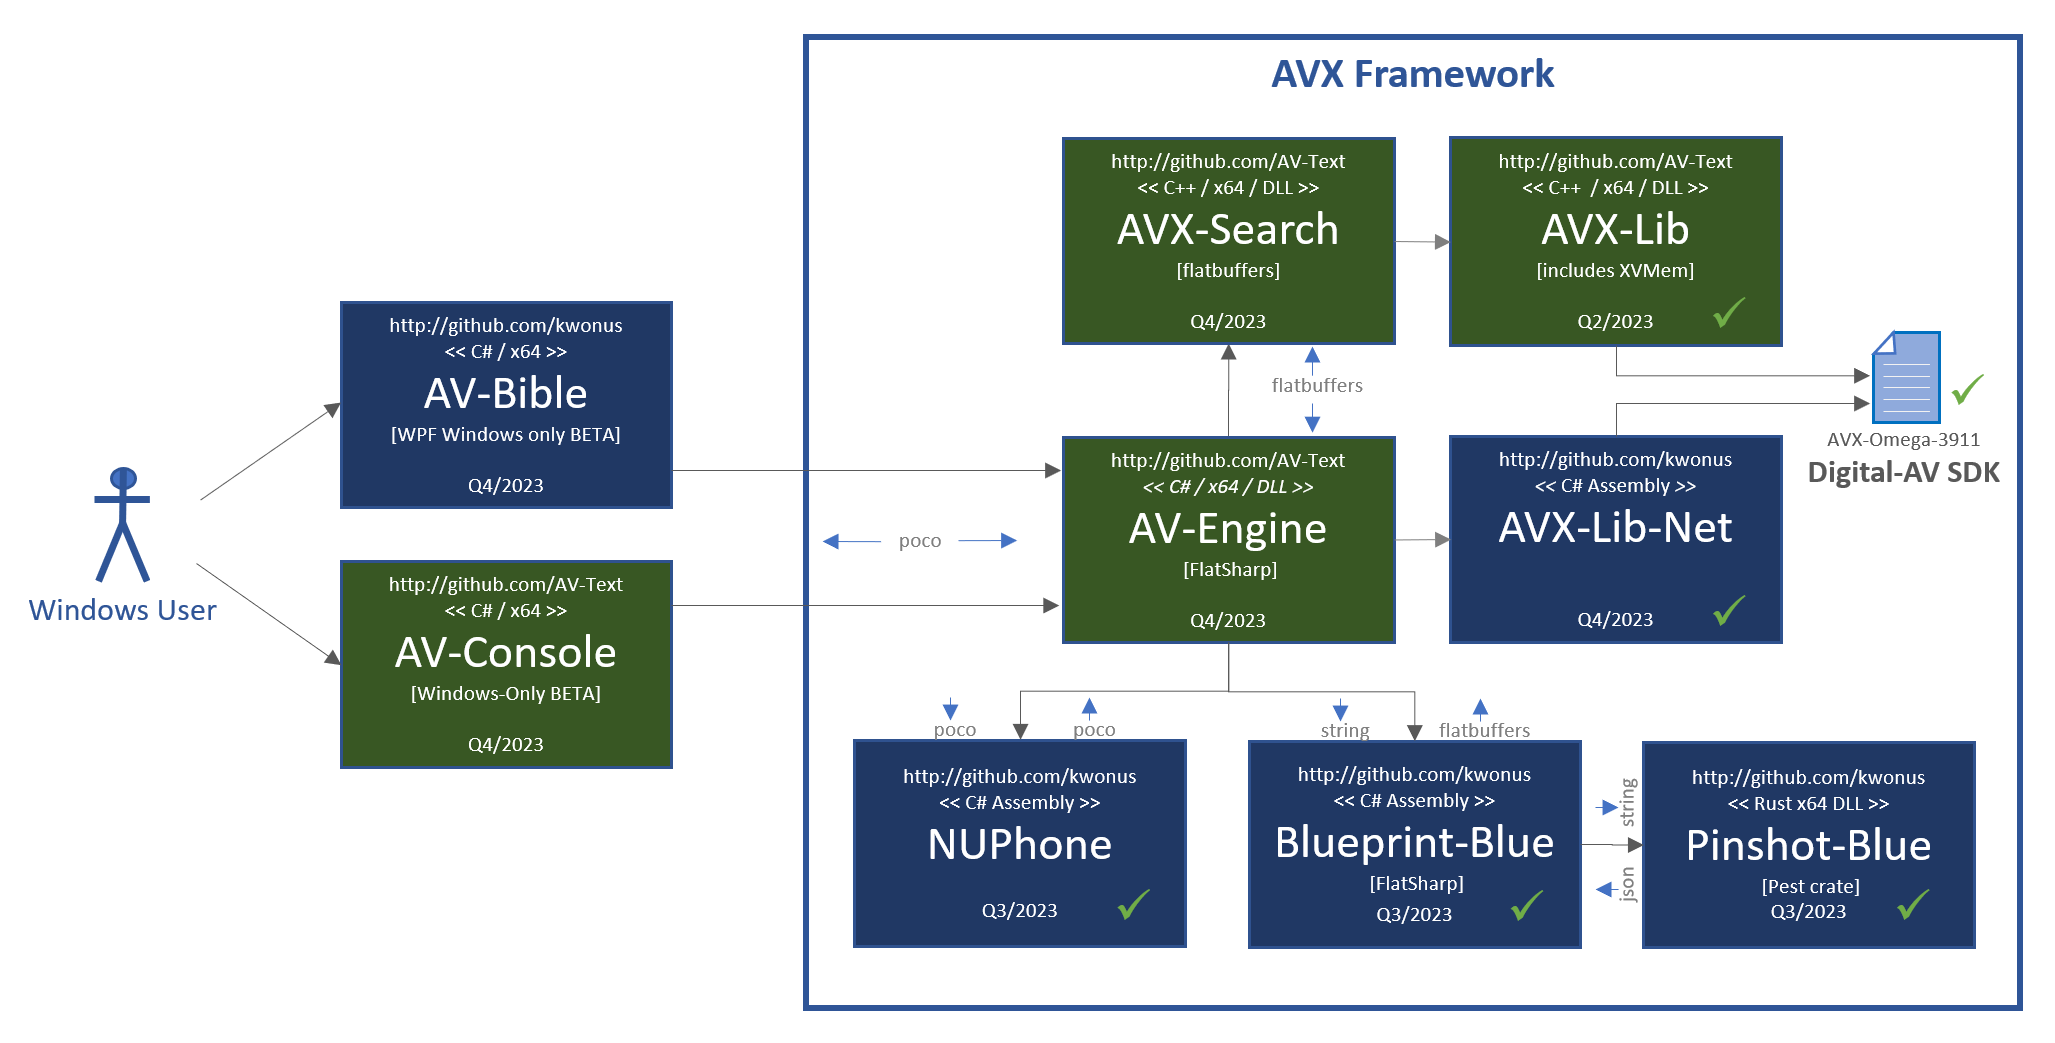
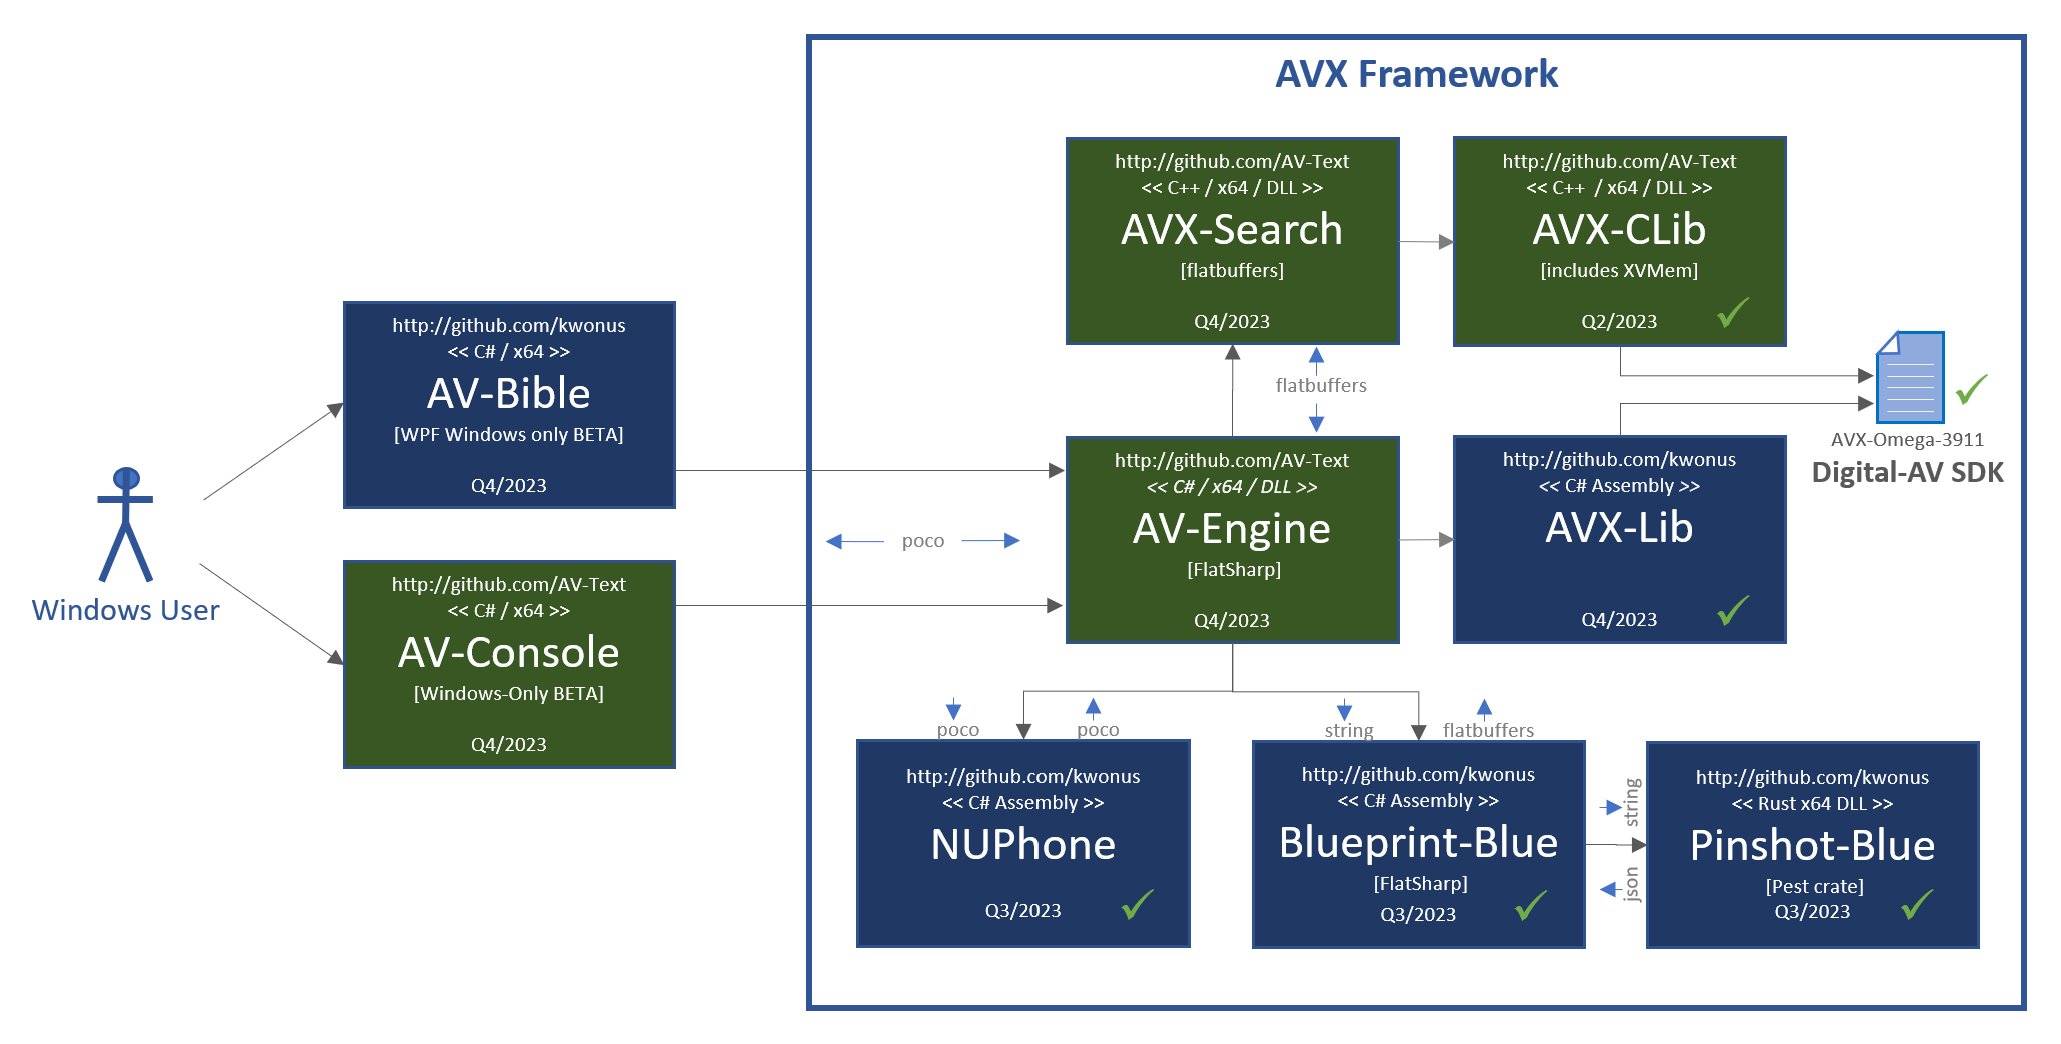
Slightly refactored nomenclature in design doc (README)

diff --git a/README.md b/README.md
@@ -39,7 +39,7 @@ Consumers of AVX-Framework directly target a single dotnet assembly, namely AV-E
 
 ![](AVXSearch/AVX-Framework.png)
 
-**Figure-1**: AVX-Framework dependency diagram [revision #3B01]
+**Figure-1**: AVX-Framework dependency diagram [revision #3B02]
 
 Evidenced by Figure-1, serialization is used for parameters when crossing language-boundaries. Parameter serialization, for in-proc cross-language invocation, is used in lieu more granular parameter-marshalling, because it is both more efficient and less fragile than marshalling. In-proc method invocations that do <u>not</u> cross language boundaries utilize POCO (plain old C# objects \<or\> plain old C++ objects). The table in Figure 2 identifies serialization formats used for inputs and outputs per module, along with repository references.
 
@@ -47,14 +47,14 @@ Evidenced by Figure-1, serialization is used for parameters when crossing langua
 | ------------------------------------------------------------ | ------------------------------------------------------------ | ------------------------------------------------------------ |
 | **AV-Engine** *(github.com/AV-Text/AVX)*<br/>[./AV-Engine](https://github.com/AV-Text/AVX/tree/master/AV-Engine) | Quelle Command (text)                                        | IAVResult   interface                                        |
 | **AVX-Search** *(github.com/AV-Text/AVX)*<br/>[./AVXSearch](https://github.com/AV-Text/AVX/tree/master/AVXSearch) | flatbuffers binary [blueprint]<br/>*(schema: blueprint_blue.fbs)* | flatbuffers binary [search results]<br/>*(schema: avx_search.fbs)* |
-| **AVX-Lib** *(github.com/AV-Text/AVX)*<br/>[./AVXLib](https://github.com/AV-Text/AVX/tree/master/AVXLib) | C++ Classes/Methods                                          | C++ Classes/Methods                                          |
+| **AVX-CLib** *(github.com/AV-Text/AVX)*<br/>[./AVXLib](https://github.com/AV-Text/AVX/tree/master/AVXLib) | C++ Classes/Methods                                          | C++ Classes/Methods                                          |
 | **Digital-AV** *(github.com/AV-Text/AVX)*<br/>[./omega](https://github.com/AV-Text/AVX/tree/master/omega)/AVX-Omega-3911.data | n/a                                                          | *see specification:*<br />[Digital-AV-Ω39.pdf](https://github.com/AV-Text/AVX/blob/master/omega/Digital-AV-Ω39.pdf) |
-| **AVX-Lib-Net** *(github.com/kwonus/Digital-AV)*<br/>[./omega/foundations/csharp/AVXLib](https://github.com/kwonus/Digital-AV/tree/master/omega/foundations/csharp/AVXLib) | C# Classes/Methods                                           | C# Classes/Methods                                           |
+| **AVX-Lib** *(github.com/kwonus/Digital-AV)*<br/>[./omega/foundations/csharp/AVXLib](https://github.com/kwonus/Digital-AV/tree/master/omega/foundations/csharp/AVXLib) | C# Classes/Methods                                           | C# Classes/Methods                                           |
 | **Pinshot-Blue** *(github.com/kwonus/pinshot-blue)*<br/>[./src](https://github.com/kwonus/pinshot-blue/tree/main/src) | null-terminated text                                         | json-formatted text [pinshot]<br/>*(null-terminated text)*   |
 | **Blueprint-Blue** *(github.com/kwonus/blueprint-blue)*<br/>[./Blueprint-Blue-Lib](https://github.com/kwonus/blueprint-blue/tree/main/Blueprint-Blue-Lib) | null-terminated text                                         | flatbuffers binary [blueprint]<br/>*(schema: blueprint_blue.fbs)* |
 | **NUPhone** *(github.com/kwonus/NUPhone)*<br/>[./PhonemeEmbeddings](https://github.com/kwonus/NUPhone) | C# Classes/Methods                                           | C# Classes/Methods                                           |
 
-**Figure-2**: AVX-Framework input and output definition and repository details [revision #3B01]
+**Figure-2**: AVX-Framework input and output definition and repository details [revision #3B02]
 
 ### AV-Engine Internals
 
@@ -72,13 +72,13 @@ A BETA release of AV-Bible and AV-Console are planned for 2023. The development 
 
 ![](AVXSearch/AVX-Roadmap-2023.png)
 
-**Figure-4**: Development roadmap for BETA releases in 2023 [revision #3B01]
+**Figure-4**: Development roadmap for BETA releases in 2023 [revision #3B02]
 
 We plan to harden AV-Bible (Windows desktop application) and release it into the Microsoft Store in the first quarter of 2024. Afterwards, additional apps will be implemented and released. The diagram, depicted in Figure-5, identifies anticipated application releases and estimated release dates:
 
 ![](AVXSearch/AVX-Roadmap-2024.png)
 
-**Figure-5**: Roadmap for [user-facing] application releases in 2024 [revision #3B01]
+**Figure-5**: Roadmap for [user-facing] application releases in 2024 [revision #3B02]
 
 ### Implementation Status
 
